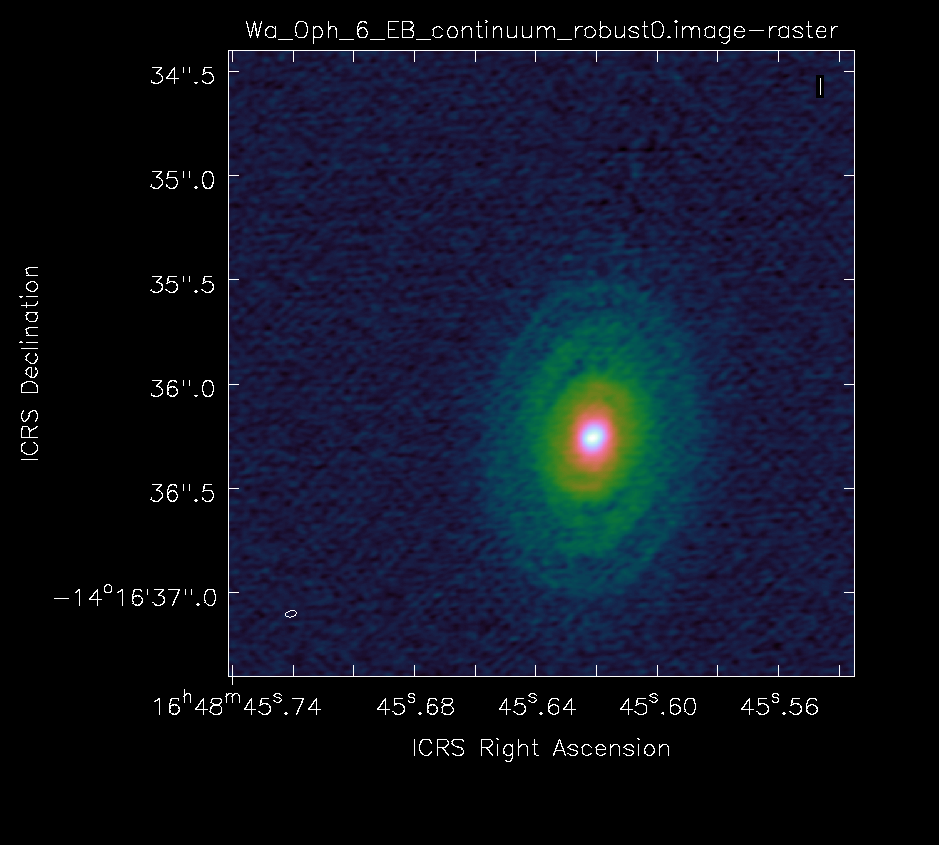
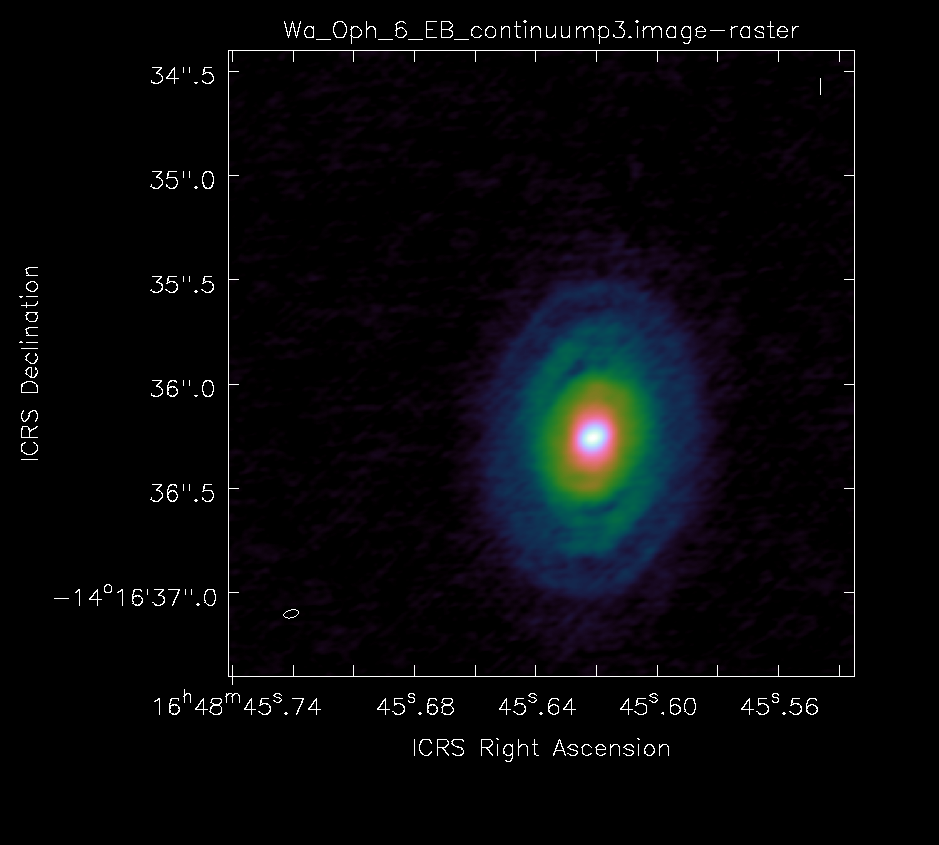
updated Elias 27

diff --git a/reduction_scripts/Elias_27.py b/reduction_scripts/Elias_27.py
@@ -181,7 +181,7 @@ clean(vis=SB1_contms_ap1,
 # rms: 55 microJy/beam
 
 ### We are now done with self-cal of the continuum of SB1 and rename the final measurement set. 
-SB1_contms_final = field+'_'+tag+'_contfinal.ms'
+SB1_contms_final = 'Elias_27_SB1_contfinal.ms'
 os.system('cp -r '+SB1_contms_ap1+' '+SB1_contms_final)
 
 
@@ -244,6 +244,193 @@ clean(vis=SB1_CO_cvel,
       cyclefactor = 1, 
       threshold = '8mJy',
       interactive=True) 
+
+
+##################################################################
+##################################################################
+## long baseline data
+##################################################################
+##################################################################
+LB_vis = '/data/sandrews/LP/2016.1.00484.L/science_goal.uid___A001_X8c5_X50/group.uid___A001_X8c5_X51/member.uid___A001_X8c5_X52/calibrated/calibrated_final.ms' #this is the long-baseline measurement set being calibrated
+field = 'Elias_27' 
+
+LB1_refant = 'DA61, DA50'
+tag = 'EB'
+
+# spws 3 and 7 contain the CO 2-1 line, while the others are continuum only
+contspws = '0~7'
+
+flagmanager(vis=LB_vis,mode='save', versionname='before_cont_flags')
+
+# Flag the CO 2-1 line
+# velocity range selected for flagging based on compact configuration data
+flagchannels='3:1880~1950, 7:1880~1950'
+
+flagdata(vis=LB_vis,mode='manual', spw=flagchannels, flagbackup=False, field = field)
+
+# Average the channels within spws
+LB1_initcont = field+'_'+tag+'_initcont.ms'
+os.system('rm -rf ' + LB1_initcont + '*')
+split2(vis=LB_vis,
+       field = field,
+       spw=contspws,      
+       outputvis=LB1_initcont,
+       width=[8,8,8,480, 8, 8, 8, 480], # ALMA recommends channel widths <= 125 MHz in Band 6 to avoid bandwidth smearing
+       timebin = '6s',
+       datacolumn='data')
+
+# Restore flagged line channels
+flagmanager(vis=LB_vis,mode='restore',
+            versionname='before_cont_flags')
+
+plotms(vis=LB1_initcont,xaxis='uvdist',yaxis='amp',coloraxis='spw', avgtime = '30')
+
+#check individual execution blocks
+LB1_initcontimage0 = field+'_'+tag+'_initcontinuum_0'
+os.system('rm -rf '+LB1_initcontimage0+'.*')
+tclean(vis=LB1_initcont, 
+      imagename=LB1_initcontimage0, 
+      specmode='mfs', 
+      deconvolver = 'multiscale',
+      scales = [0, 20, 40, 80, 160], 
+      weighting='briggs', 
+      robust=0.5,
+      gain = 0.3,
+      imsize=2400,
+      cell='0.003arcsec', 
+      niter = 50000,
+      observation = '0', 
+      interactive = True, 
+      nterms = 1)
+
+#18 cycles of 100 iterations each 
+
+LB1_initcontimage1 = field+'_'+tag+'_initcontinuum_1'
+os.system('rm -rf '+LB1_initcontimage1+'.*')
+tclean(vis=LB1_initcont, 
+      imagename=LB1_initcontimage1, 
+      specmode='mfs', 
+      deconvolver = 'multiscale',
+      scales = [0, 20, 40, 80, 160], 
+      weighting='briggs', 
+      robust=1.0,
+      gain = 0.3,
+      imsize=2400,
+      cell='0.003arcsec', 
+      niter = 50000,
+      observation = '1', 
+      interactive = True, 
+      nterms = 1)
+
+#16 cycles of 100 iterations each
+
+#long baseline and short baseline images look properly aligned
+
+concat(vis = [SB1_contms_final, LB1_initcont], concatvis = 'Elias_27_contcombined.ms', dirtol = '0.1arcsec', copypointing = False) 
+
+LB1_initcontimage = field+'_'+tag+'_initcontinuum'
+os.system('rm -rf '+LB1_initcontimage+'.*')
+clean(vis='Elias_27_contcombined.ms', 
+      imagename=LB1_initcontimage, 
+      mode='mfs', 
+      multiscale = [0, 20, 40, 80, 160, 320], 
+      weighting='briggs', 
+      robust=0.5,
+      gain = 0.1,
+      imsize=3000,
+      cell='0.003arcsec', 
+      niter = 50000,
+      interactive = True, 
+      usescratch = True,
+      psfmode = 'hogbom',
+      cyclefactor = 5, 
+      mask = 'ellipse[[1516pix, 1325pix], [2.5arcsec,1.4arcsec],117deg]',
+      imagermode = 'csclean')
+
+#45 cycles of 100 iterations each
+#rms: 14.8 microJy/beam
+#peak: 2.4 mJy/beam
+
+#delmod(vis=LB1_initcont,field=field,otf=True)
+
+#clearcal(vis=LB1_initcont)
+
+# First round of phase-only self-cal
+LB1_p1 = field+'_'+tag+'.p1'
+os.system('rm -rf '+LB1_p1)
+gaincal(vis='Elias_27_contcombined.ms', caltable=LB1_p1, gaintype='T', combine = 'spw,scan', 
+        spw='0~15', refant=LB1_refant, calmode='p', 
+        solint='300s', minsnr=2.0, minblperant=4)
+
+applycal(vis='Elias_27_contcombined.ms', spw='0~15', spwmap = [0]*16, gaintable=[LB1_p1], calwt=True, applymode = 'calonly', flagbackup=False, interp = 'linearperobs')
+
+tag = 'combined'
+
+LB1_contms_p1 = field+'_'+tag+'_contp1.ms'
+os.system('rm -rf '+LB1_contms_p1)
+split2(vis='Elias_27_contcombined.ms', outputvis=LB1_contms_p1, datacolumn='corrected')
+
+LB1_contimagep1 = field+'_'+tag+'_continuump1'
+os.system('rm -rf '+LB1_contimagep1+'.*')
+clean(vis=LB1_contms_p1, 
+      imagename=LB1_contimagep1, 
+      mode='mfs', 
+      multiscale = [0, 20, 40, 80, 160, 320], 
+      weighting='briggs', 
+      robust=0.5,
+      gain = 0.1,
+      imsize=3000,
+      cell='0.003arcsec', 
+      niter = 50000,
+      interactive = True, 
+      usescratch = True,
+      psfmode = 'hogbom',
+      cyclefactor = 5, 
+      mask = 'ellipse[[1516pix, 1325pix], [2.5arcsec,1.4arcsec],117deg]',
+      imagermode = 'csclean')
+
+#50 cycles of 100 iterations
+# rms: 14.4 microJy/beam
+# peak: 2.4 mJy/beam
+
+
+# Second round of phase-only self-cal
+LB1_p2 = field+'_'+tag+'.p2'
+os.system('rm -rf '+LB1_p2)
+gaincal(vis=LB1_contms_p1, caltable=LB1_p2, gaintype='T', combine = 'spw, scan', 
+        spw='0~15', refant=LB1_refant, calmode='p', 
+        solint='90s', minsnr=2.0, minblperant=4)
+
+applycal(vis=LB1_contms_p1, spw='0~15', spwmap = [0]*16, gaintable=[LB1_p2], calwt=True, applymode = 'calonly', flagbackup=False, interp = 'linearperobs')
+
+LB1_contms_p2 = field+'_'+tag+'_contp2.ms'
+os.system('rm -rf '+LB1_contms_p2)
+split2(vis=LB1_contms_p1, outputvis=LB1_contms_p2, datacolumn='corrected')
+
+
+LB1_contimagep2 = field+'_'+tag+'_continuump2'
+os.system('rm -rf '+LB1_contimagep2+'.*')
+clean(vis= LB1_contms_p2, 
+      imagename=LB1_contimagep2, 
+      mode='mfs', 
+      multiscale = [0, 20, 40, 80, 160, 320], 
+      weighting='briggs', 
+      robust=0.5,
+      gain = 0.1,
+      imsize=3000,
+      cell='0.003arcsec', 
+      niter = 50000,
+      interactive = True, 
+      usescratch = True,
+      psfmode = 'hogbom',
+      cyclefactor = 5, 
+      mask = 'ellipse[[1516pix, 1325pix], [2.5arcsec,1.4arcsec],117deg]',
+      imagermode = 'csclean')
+
+#50 cycles of 100 iterations each 
+# rms: 14.4 microJy/beam
+# peak: 2.4 mJy/beam
+#looks pretty similar to previous round of self-cal
 
 
 

diff --git a/reduction_scripts/Wa_Oph_6.py b/reduction_scripts/Wa_Oph_6.py
@@ -334,7 +334,7 @@ tclean(vis=LB1_initcont,
       interactive = True, 
       nterms = 1)
 
-#4 iterations
+#4 cycles of 100 iterations each
 
 LB1_initcontimage1 = field+'_'+tag+'_initcontinuum_1'
 os.system('rm -rf '+LB1_initcontimage1+'.*')
@@ -353,7 +353,7 @@ tclean(vis=LB1_initcont,
       interactive = True, 
       nterms = 1)
 
-#5 iterations
+#5 cycles of 100 iterations each
 
 LB1_initcontimage_noSB = field+'_'+tag+'_initcontinuum_noSB'
 os.system('rm -rf '+LB1_initcontimage_noSB+'.*')
@@ -371,7 +371,7 @@ tclean(vis=LB1_initcont,
       interactive = True, 
       nterms = 1)
 
-#4 iterations
+#4 cycles of 100 iterations each
 
 #long baseline and short baseline images look properly aligned
 
@@ -394,7 +394,7 @@ clean(vis=[SB1_contms_final, LB1_initcont],
       mask = 'circle[[1080pix, 890pix], 1arcsec]',
       imagermode = 'csclean')
 
-#12 iterations
+#12 cycles of 100 iterations each
 #rms: 25 microJy/beam
 #peak: 4.7 mJy/beam
 
@@ -415,6 +415,7 @@ LB1_contms_p1 = field+'_'+tag+'_contp1.ms'
 os.system('rm -rf '+LB1_contms_p1)
 split2(vis=LB1_initcont, outputvis=LB1_contms_p1, datacolumn='corrected')
 
+
 LB1_contimagep1 = field+'_'+tag+'_continuump1'
 os.system('rm -rf '+LB1_contimagep1+'.*')
 clean(vis=[SB1_contms_final, LB1_contms_p1], 
@@ -434,7 +435,8 @@ clean(vis=[SB1_contms_final, LB1_contms_p1],
       mask = 'circle[[1080pix, 890pix], 1arcsec]',
       imagermode = 'csclean')
 
-#20 iterations
+
+#20 cycles of 100 iterations each
 # rms: 15.4 microJy/beam
 # peak: 6.6 mJy/beam
 
@@ -472,7 +474,7 @@ clean(vis=[SB1_contms_final, LB1_contms_p2],
       mask = 'circle[[1080pix, 890pix], 1arcsec]',
       imagermode = 'csclean')
 
-#23 iterations
+#23 cycles of 100 iterations each
 # rms: 14.6 microJy/beam
 # peak: 6.9 mJy/beam
 
@@ -508,7 +510,7 @@ clean(vis=[SB1_contms_final, LB1_contms_p3],
       mask = 'circle[[1080pix, 890pix], 1arcsec]',
       imagermode = 'csclean')
 
-#24 iterations
+#24 cycles of 100 iterations each
 # rms: 14.2 microJy/beam
 # peak: 7.0 mJy/beam
 
@@ -531,4 +533,5 @@ clean(vis=[SB1_contms_final, LB1_contms_p3],
       mask = 'circle[[1080pix, 890pix], 1arcsec]',
       imagermode = 'csclean')
 
+##22 cycles of 100 iterations each
 
